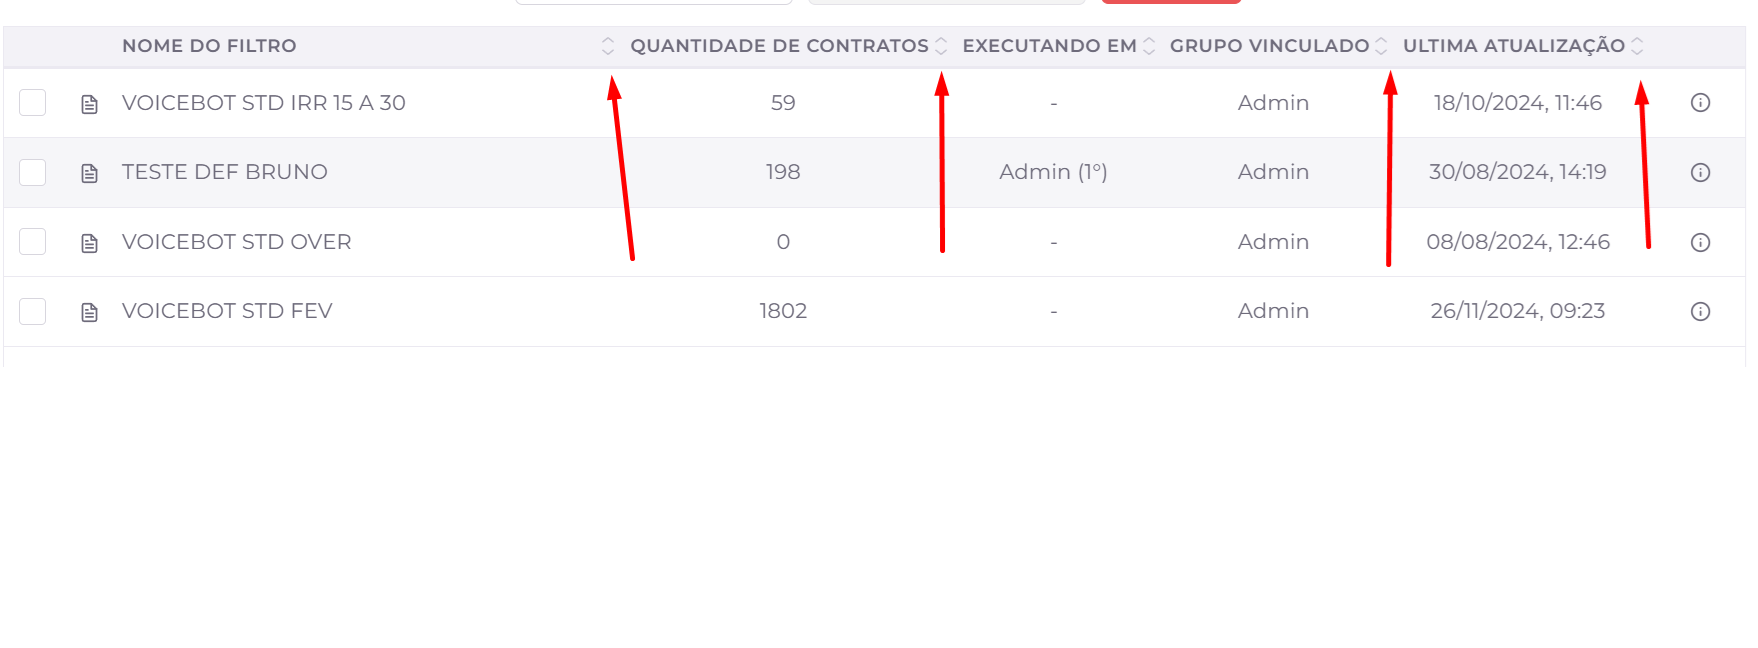
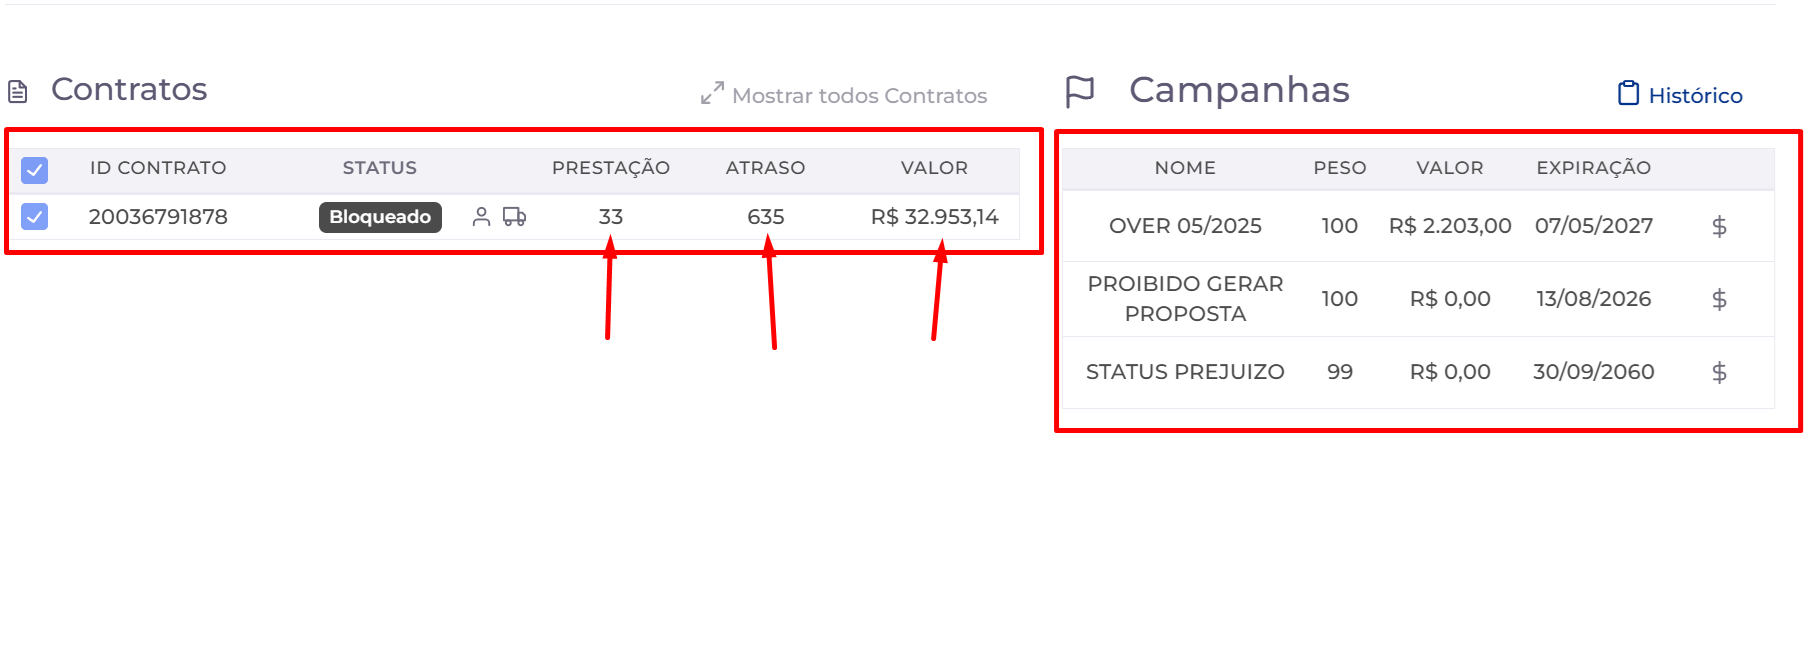
Melhorias da doc sobre a tela de Cobrança

diff --git a/Cobranca/Cobranca.md b/Cobranca/Cobranca.md
@@ -100,7 +100,7 @@ Indica que o contrato está inativo e não pode ser tratado normalmente durante 
 
 # 📄 Contratos e Campanhas
 
-![Contratos-Campanhas](../img/cobranca/contratos-campanhas.png)
+![Contratos-Campanhas](../img/cobranca/contratos-campanhas1.png)
 
 Esta seção apresenta os contratos e as campanhas vinculadas ao cliente selecionado, permitindo que o operador consulte informações importantes para o atendimento e identifique oportunidades de negociação.
 
@@ -122,7 +122,7 @@ A listagem de contratos exibe todos os contratos associados ao cliente, juntamen
 
 O ícone em formato de caminhão permite consultar as informações da garantia vinculada ao contrato.
 
-![Contratos-Campanhas](../img/cobranca/contratos-campanhas.png)
+![Contratos-Campanhas](../img/cobranca/contratos-campanhas2.png)
 
 Ao selecioná-lo, o sistema abre uma janela com os dados do veículo utilizado como garantia da operação.
 
@@ -153,6 +153,11 @@ As informações disponíveis permitem ao operador identificar quais campanhas e
 - 💰 **Valor:** Valor relacionado à campanha.
 - 📅 **Expiração:** Data de encerramento da campanha.
 
+## ⚙️ Ações Disponíveis
+![Contratos-Campanhas](../img/cobranca/alterarValorCobranca.png)
+
+- **💲 Alterar valor da campanha**: Permite atualizar o valor da campanha especificamente para o contrato selecionado. Ao acionar o ícone de cifrão, o sistema abre uma janela para informar o novo valor do contrato na campanha e salvar a alteração.
+
 ### 💡 Observação
 
 Quando um cliente possui mais de um contrato, o operador pode alternar entre eles para consultar suas informações e verificar as campanhas vinculadas antes de iniciar a negociação.
@@ -163,7 +168,7 @@ Esta seção apresenta todos os telefones vinculados ao devedor, permitindo ao o
 
 Além da consulta, o operador pode cadastrar novos telefones, visualizar todos os números disponíveis e registrar informações que auxiliem os próximos atendimentos.
 
-![Contratos-Campanhas](../img/cobranca/telefones.png)
+![Contratos-Campanhas](../img/cobranca/telefones1.png)
 
 ## 📋 Informações Exibidas
 
@@ -179,12 +184,11 @@ Exibe o número de telefone cadastrado para contato com o devedor.
 
 Indica se o número possui WhatsApp cadastrado.
 
-### 🔥 HOT
+### 🔥 Telefone HOT
 
-Identifica telefones classificados como **HOT**, ou seja, números considerados prioritários ou de maior relevância para contato.
+Identifica telefones pertencentes ao **devedor**, destacando números considerados **HOT** para contato.
 
-> **Observação:** *Seria interessante confirmar com a equipe exatamente como um número recebe essa classificação.*
-> 
+Quando o telefone é classificado como **HOT**, o indicador é apresentado com **fundo vermelho**, facilitando sua identificação na lista de telefones.
 
 ### 📌 Status
 
@@ -230,7 +234,7 @@ Permite alterar as informações do telefone selecionado, como observações ou 
 
 # 📍 Endereços
 
-![endereco](../img/cobranca/enderecos.png)
+![endereco](../img/cobranca/enderecos1.png)
 
 Esta seção apresenta os endereços vinculados ao devedor, permitindo ao operador consultar informações de localização e, quando necessário, cadastrar ou atualizar novos endereços.
 
@@ -256,10 +260,8 @@ Apresenta a cidade e o estado (UF) do endereço.
 
 ### 🔥 HOT
 
-Identifica endereços classificados como **HOT**, indicando que possuem maior relevância para as atividades de cobrança.
-
-<!-- > **Observação:** A classificação **HOT** segue os critérios definidos pelo escritório para priorização das informações durante o atendimento.
-> -->
+Identifica endereços pertencentes ao **devedor**, classificando-os como **HOT**.
+Quando o endereço é classificado como **HOT**, o indicador é apresentado com **fundo vermelho**, facilitando sua identificação na lista de endereços.
 
 ## ⚙️ Ações Disponíveis
 
@@ -533,22 +535,22 @@ Permite iniciar o processo de criação de um novo acordo para o contrato seleci
 
 ### 📋 Histórico do Acordo
 
-Permite consultar o histórico de eventos relacionados ao acordo, registrando todas as alterações e operações realizadas durante sua criação e gerenciamento.
+Permite consultar os eventos registrados pelo sistema durante a criação e o gerenciamento do acordo.
 
-Cada registro informa a **data e hora** da operação, além da descrição detalhada da ação executada, como:
+Cada registro apresenta a **data e hora** do evento e uma **descrição detalhada da operação realizada**, permitindo acompanhar as principais alterações relacionadas ao acordo, como:
 
 - 🤝 Criação do acordo;
-- 💰 Valores negociados;
+- 💰 Valores e condições negociadas;
 - 📉 Descontos aplicados;
-- 📅 Data de vencimento da primeira parcela;
-- 📄 Parcelas incluídas no acordo;
-- 🔄 Alterações de status das parcelas.
+- 📅 Vencimento da primeira parcela;
+- 📄 Parcelas vinculadas ao acordo;
+- 🔄 Alterações no status das parcelas.
 
-![acordos](../img/cobranca/historico.png)
+![acordos](../img/cobranca/historico-acordos.png)
 
 # 💰 Parcelas
 
-!image.png
+![acordos](../img/cobranca/parcelas.png)
 
 Esta seção permite consultar todas as parcelas vinculadas ao contrato, apresentando informações financeiras e o status de cada uma.
 